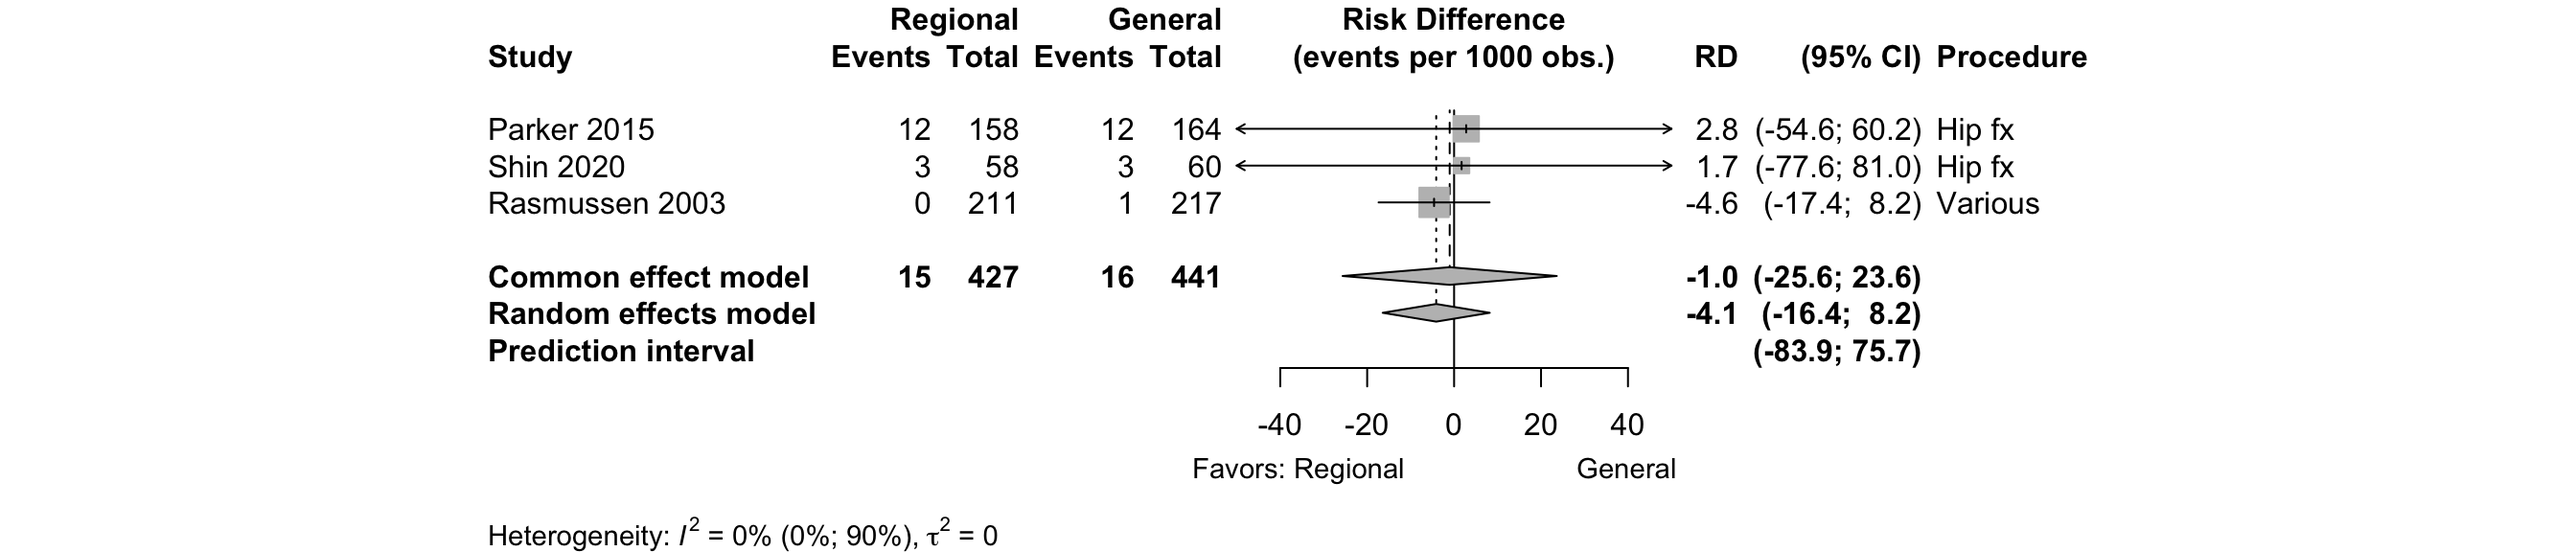
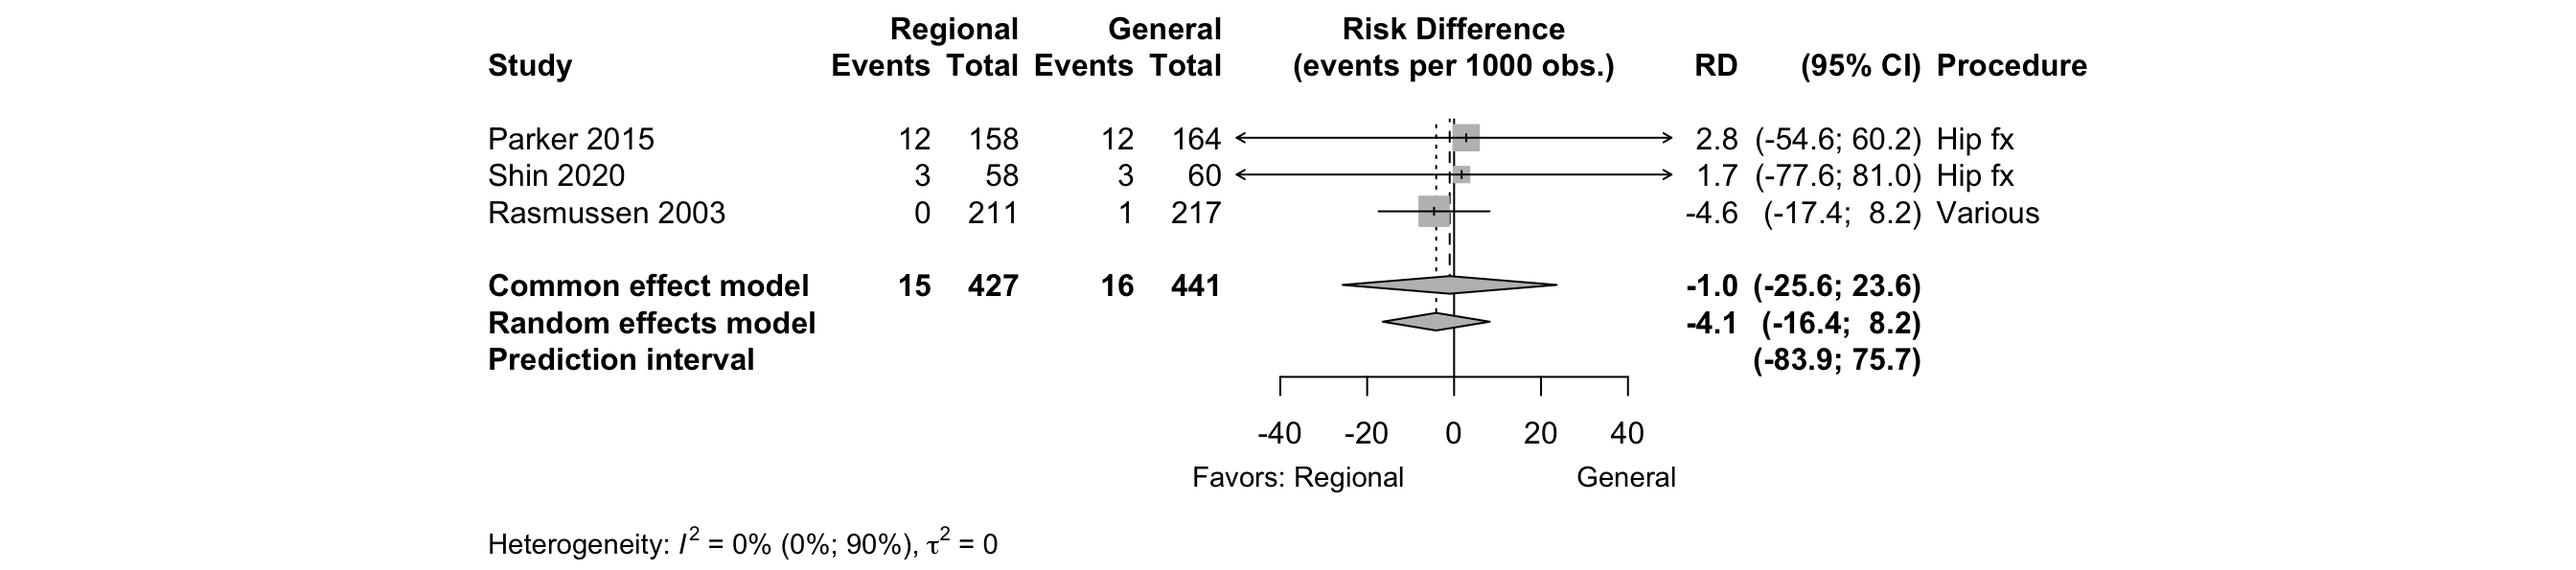
fix 90d forest

diff --git a/docs/kq3.html b/docs/kq3.html
@@ -13331,7 +13331,7 @@ Recent upates
 </div>
 </div>
 <p><caption_mg> Figure 23. <strong>Risk ratio</strong> for 90-day mortality (regional versus general; randomized clinical trials). </caption_mg></p>
-<div class="cell" data-layout-align="center" data-fig.dim="[14,3]">
+<div class="cell" data-layout-align="center" data-fig.dim="[14,3.1]">
 <div class="cell-output-display">
 <div class="quarto-figure quarto-figure-center">
 <figure class="figure">
@@ -13341,7 +13341,7 @@ Recent upates
 </div>
 </div>
 <p><caption_mg> Figure 24. <strong>Risk difference</strong> for 90-day mortality (regional versus general; randomized clinical trials). </caption_mg></p>
-<div class="cell" data-layout-align="center" data-fig.dim="[14,3]">
+<div class="cell" data-layout-align="center" data-fig.dim="[14,3.1]">
 <div class="cell-output-display">
 <div class="quarto-figure quarto-figure-center">
 <figure class="figure">
